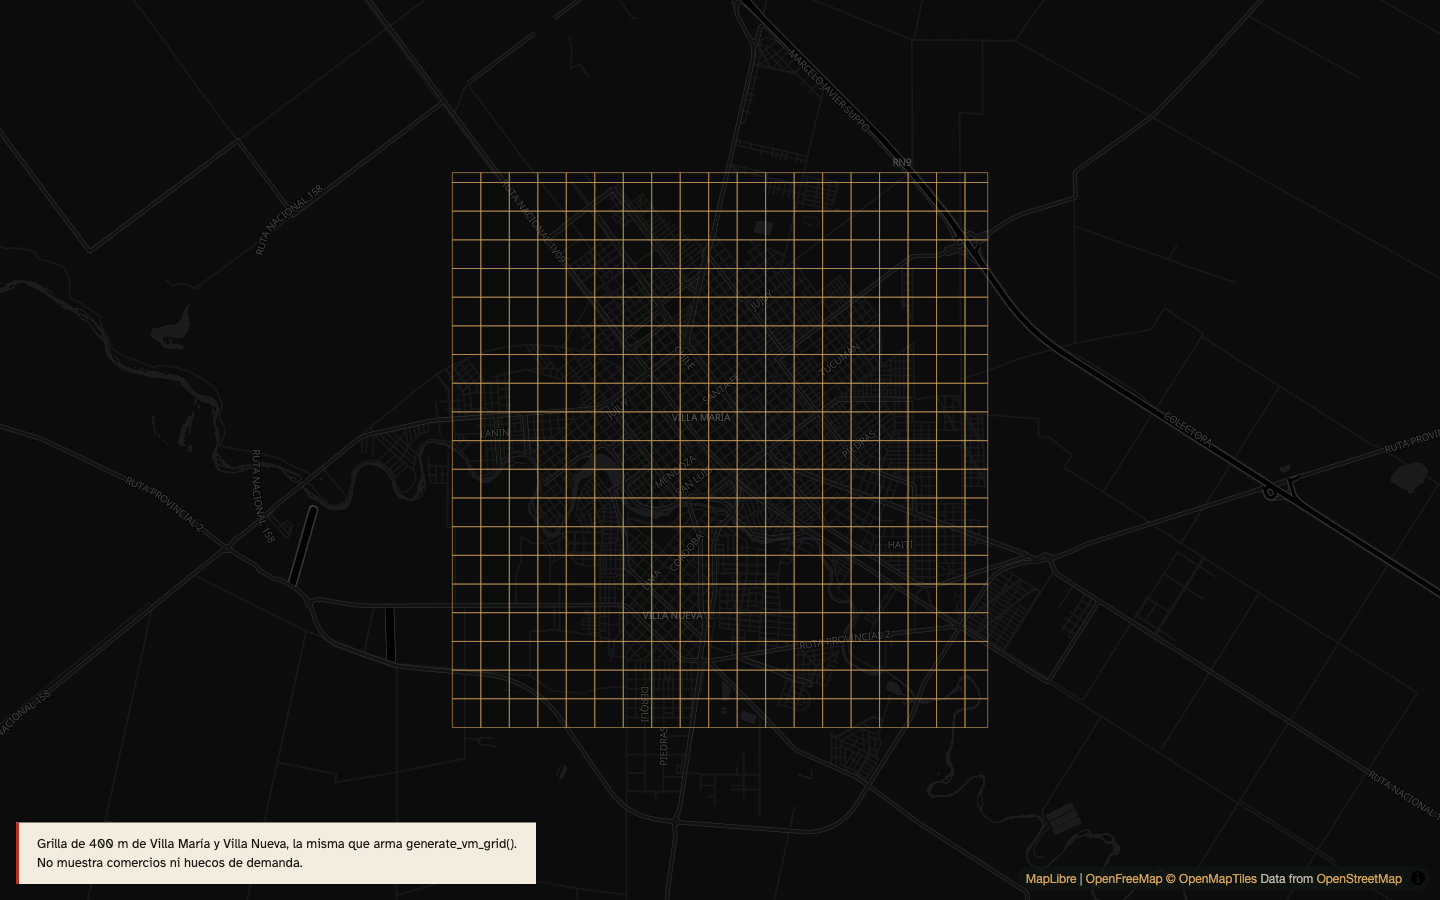
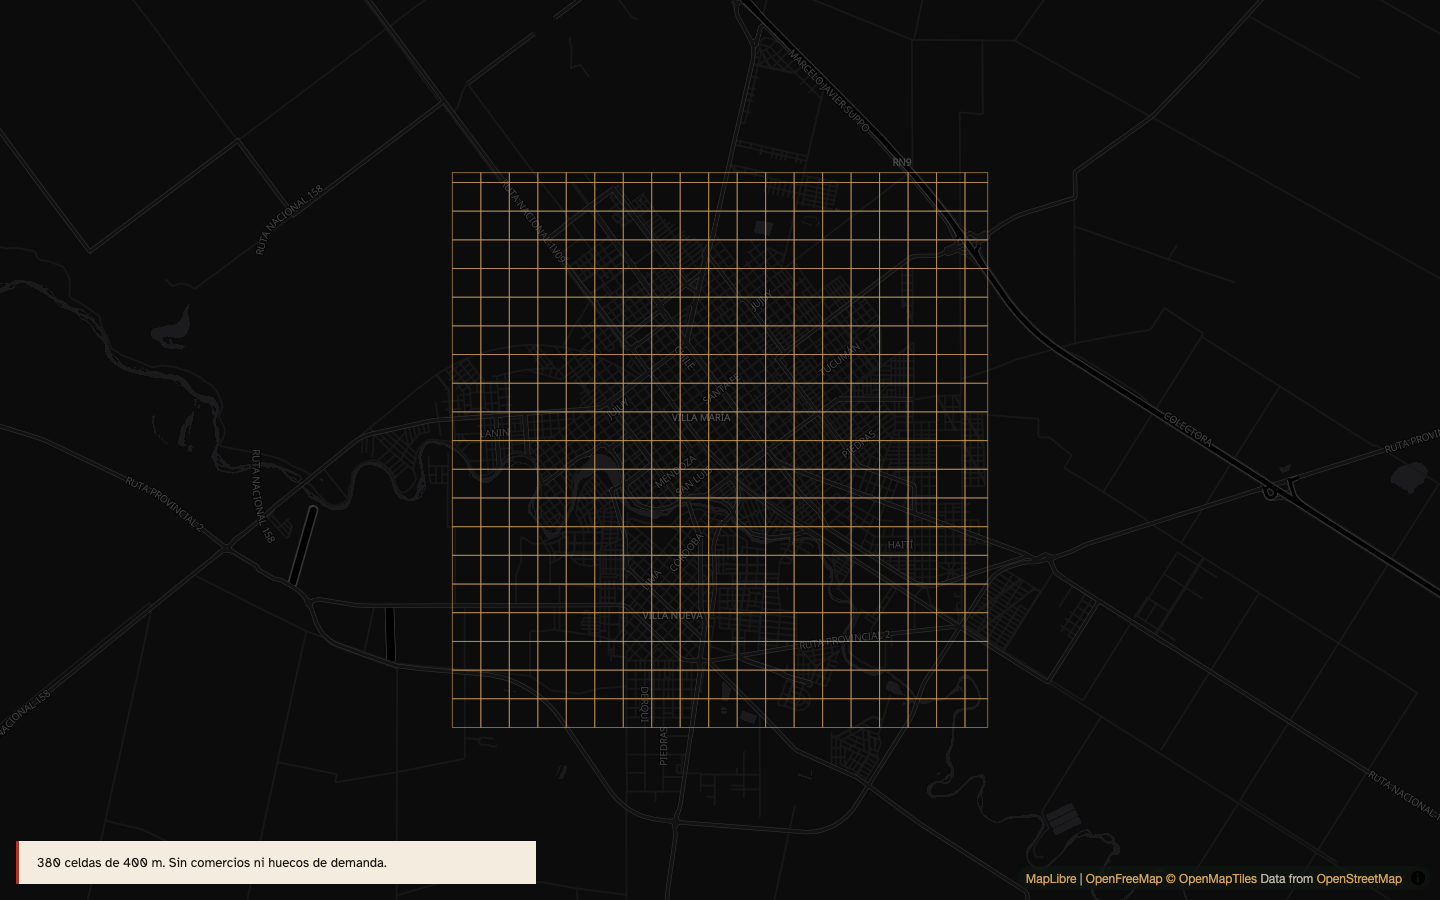
docs: explain the 400 m grid without a function name

Changed region(s): [[0.0, 0.9022, 0.375, 0.9644]]

diff --git a/apps/web/src/app/demo/page.tsx b/apps/web/src/app/demo/page.tsx
@@ -5,8 +5,7 @@ export default function DemoPage() {
     <main id="mesa" className="desk">
       <GridDemo />
       <p className="hint demo-note">
-        Grilla de 400 m de Villa María y Villa Nueva, la misma que arma
-        generate_vm_grid(). No muestra comercios ni huecos de demanda.
+        380 celdas de 400 m. Sin comercios ni huecos de demanda.
       </p>
     </main>
   );

diff --git a/README.md b/README.md
@@ -16,7 +16,7 @@ La capa pinta el censo 2022. Donde vive más gente, el color tiene más contrast
 
 ## La grilla
 
-`/demo` dibuja la grilla de 400 m, la misma que arma `generate_vm_grid()`. No muestra comercios ni huecos de demanda.
+Cada celda mide 400 m. El mapa usa esa grilla para marcar dónde hay demanda que todavía no tiene local. `/demo` dibuja las 380 celdas de Villa María y Villa Nueva sin base de datos, y no muestra comercios ni huecos.
 
 ![Grilla de 400 m sobre Villa María y Villa Nueva](docs/grilla.png)
 
